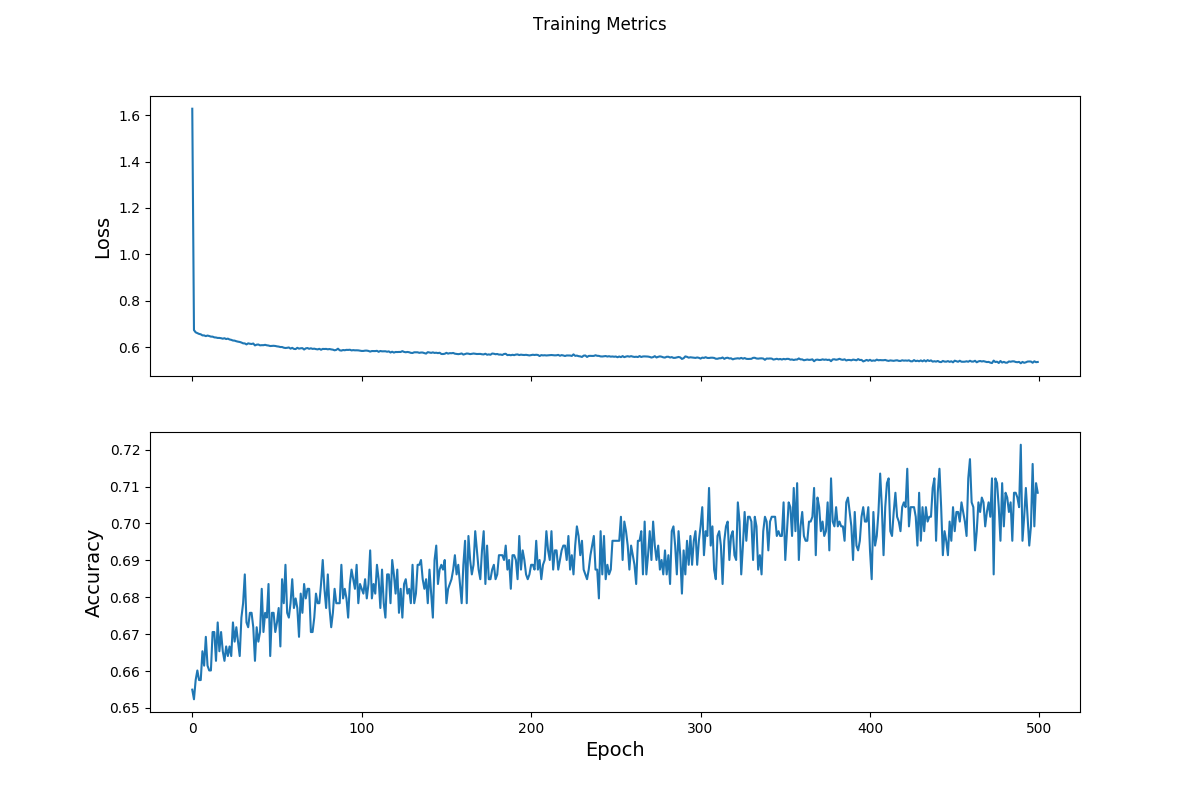
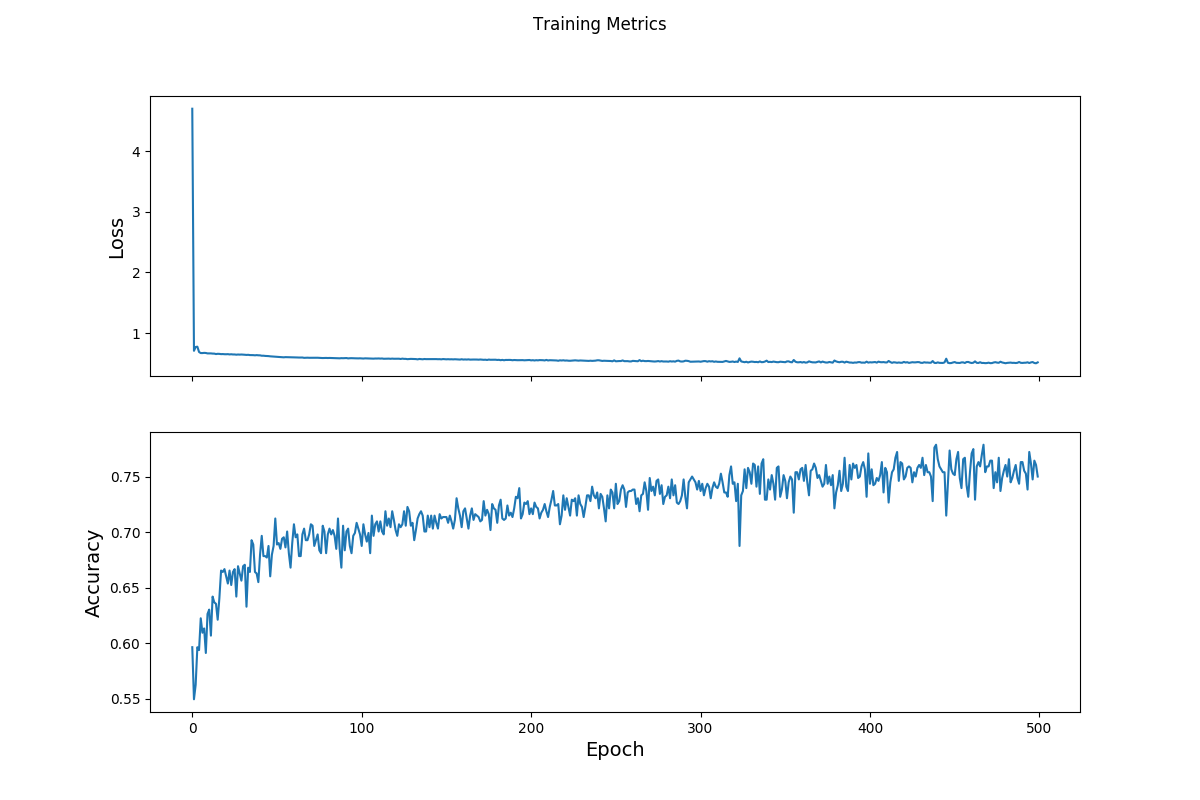
changing coverage

diff --git a/iris/diabetes_predictor/diabetes_retraining_controller.py b/iris/diabetes_predictor/diabetes_retraining_controller.py
@@ -12,7 +12,7 @@ from diabetes import Diabetes
 
 diabetes = Diabetes()
 model = diabetes.model
-optimizer = tf.train.AdamOptimizer(learning_rate=0.01)
+optimizer = tf.train.AdamOptimizer(learning_rate=0.001)
 checkpoint_dir = './diabetes_model'
 checkpoint_prefix = os.path.join(checkpoint_dir, "ckpt")
 root = tfe.Checkpoint(optimizer=optimizer,
